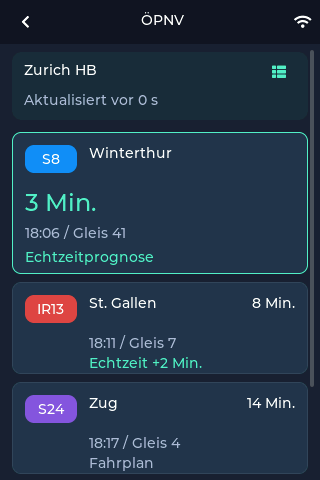
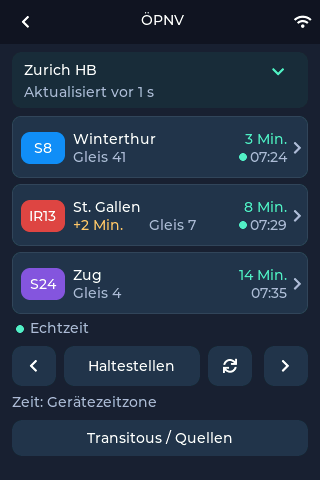
Fix public transport view

diff --git a/src/apps/TransitApp.cpp b/src/apps/TransitApp.cpp
@@ -23,10 +23,18 @@ lv_obj_t *button(lv_obj_t*p,const std::string&t,int x,int y,int w,int h,lv_event
 lv_obj_t *bounded_label(lv_obj_t *parent,const std::string &text,int x,int y,int width,int height,uint32_t color=0xffffff,bool big=false){
  auto *value=label(parent,text,x,y,width,color,big);lv_obj_set_height(value,height);return value;
 }
-void route_badge(lv_obj_t *parent,const transit::Departure &departure,int x,int y){
- auto *pill=box(parent,x,y,52,28,departure.color);
- auto *name=bounded_label(pill,departure.line,0,0,48,lv_font_get_line_height(lv_obj_get_style_text_font(pill,LV_PART_MAIN)));
+void route_badge(lv_obj_t *parent,const transit::Departure &departure,int x,int y,int width=52,int height=28){
+ auto *pill=box(parent,x,y,width,height,departure.color);
+ lv_obj_clear_flag(pill,LV_OBJ_FLAG_CLICKABLE);
+ auto *name=bounded_label(pill,departure.line,0,0,width-4,lv_font_get_line_height(lv_obj_get_style_text_font(pill,LV_PART_MAIN)));
  lv_obj_set_style_text_align(name,LV_TEXT_ALIGN_CENTER,0);lv_obj_center(name);
+}
+// Only fresh realtime predictions receive an indicator.
+void live_dot(lv_obj_t *parent,int x,int y,bool live,bool cached=false){
+ if(!live||cached)return;
+ auto *dot=box(parent,x,y,8,8,Mint);
+ lv_obj_clear_flag(dot,LV_OBJ_FLAG_CLICKABLE);
+ lv_obj_set_style_radius(dot,LV_RADIUS_CIRCLE,0);
 }
 void board(){ctx.view=0;TransitService::instance().resume();render();}
 void back(lv_event_t*){if(ctx.view==2||ctx.view==5){ctx.view=1;render();return;}if(ctx.view){board();return;}TransitService::instance().pause();UiSessionState::set_route("home");if(ctx.home&&lv_obj_is_valid(ctx.home))ui_load_screen(ctx.home,true);}
@@ -99,39 +107,59 @@ void render(){
  }
  if(s.favourites().empty()){label(ctx.body,i18n::tr("Your next departure"),12,24,w-24,Mint,true);label(ctx.body,i18n::tr("Add a favourite stop to get started"),12,65,w-24,Muted);button(ctx.body,i18n::tr("Find a stop"),12,110,w-24,46,start_search,0,0x237a70);button(ctx.body,i18n::tr("About Transitous"),12,170,w-24,42,info);return;}
  const auto&stop=s.favourites()[s.selected()];
- auto*station=box(ctx.body,12,8,w-24,68,0x1d2c3e);
+ auto*station=box(ctx.body,12,8,w-24,56,0x1d2c3e);
  lv_obj_add_flag(station,LV_OBJ_FLAG_CLICKABLE);lv_obj_add_event_cb(station,stops,LV_EVENT_CLICKED,nullptr);
  bounded_label(station,stop.name,12,10,w-84,24);
- bounded_label(station,LV_SYMBOL_LIST,w-60,12,24,22,Mint);
+ bounded_label(station,LV_SYMBOL_DOWN,w-60,12,24,22,Mint);
  const bool cached=!s.online()||!s.board().error.empty()||(s.fetched()&&TransitService::now_ms()-s.fetched()>180000);
  std::string status=!s.notice().empty()?s.notice():!s.online()?i18n::tr("Offline / waiting for clock"):!s.board().error.empty()?s.board().error:s.busy()?i18n::tr("Updating..."):s.fetched()?i18n::tr("Updated ")+std::to_string((TransitService::now_ms()-s.fetched())/1000)+i18n::tr("s ago"):i18n::tr("Waiting for departures");
- bounded_label(station,(cached&&s.fetched()?i18n::tr("Cached: "):"")+status,12,40,w-48,20,cached?Amber:Muted);
- int y=88;size_t shown=0;
+ bounded_label(station,(cached&&s.fetched()?i18n::tr("Cached: "):"")+status,12,32,w-48,20,cached?Amber:Muted);
+ int y=72;size_t shown=0;
  for(size_t i=0;i<s.board().departures.size();++i){
   const auto&d=s.board().departures[i];if(d.time<std::time(nullptr)-60)continue;
-  bool hero=shown++==0;int height=hero?142:92;auto*row=box(ctx.body,12,y,w-24,height);
+  ++shown;
+  const int rowWidth=w-24,height=62;
+  auto*row=box(ctx.body,12,y,rowWidth,height);
   lv_obj_add_flag(row,LV_OBJ_FLAG_CLICKABLE);lv_obj_add_event_cb(row,detail,LV_EVENT_CLICKED,reinterpret_cast<void*>(i));
-  lv_obj_set_style_border_color(row,lv_color_hex(hero?Mint:0x34465b),0);lv_obj_set_style_border_width(row,1,0);
-  route_badge(row,d,12,12);
+  lv_obj_set_style_border_color(row,lv_color_hex(0x34465b),0);lv_obj_set_style_border_width(row,1,0);
+  route_badge(row,d,8,(height-32)/2,44,32);
   const std::string remaining=(cached?"~ ":"")+transit::countdown(d,std::time(nullptr));
-  const uint32_t stateColor=d.cancelled?Amber:d.live?Mint:Muted;
-  if(hero){
-   bounded_label(row,d.destination,76,12,w-114,40);
-   bounded_label(row,remaining,12,56,w-50,30,d.cancelled?Amber:Mint,true);
-   bounded_label(row,transit::clock_text(d.time)+i18n::tr(" / Platform ")+(d.platform.empty()?"--":d.platform),12,92,w-50,20,Muted);
-   bounded_label(row,prediction(d),12,116,w-50,20,stateColor);
-  }else{
-   const int countWidth=d.cancelled?92:68;
-   bounded_label(row,d.destination,76,12,w-120-countWidth,40);
-   auto*count=bounded_label(row,remaining,w-38-countWidth,12,countWidth,20,d.cancelled?Amber:0xffffff);
-   lv_obj_set_style_text_align(count,LV_TEXT_ALIGN_RIGHT,0);
-   bounded_label(row,transit::clock_text(d.time)+i18n::tr(" / Platform ")+(d.platform.empty()?"--":d.platform),76,52,w-114,18,Muted);
-   bounded_label(row,prediction(d),76,72,w-114,18,stateColor);
+  const int countWidth=d.cancelled?88:cached?74:58;
+  const int timeRight=rowWidth-22,destinationWidth=rowWidth-84-countWidth;
+  const int delay=d.live?int((d.time-d.scheduled)/60):0;
+  const bool showDelay=delay&&!d.cancelled;
+  const auto*font=lv_obj_get_style_text_font(row,LV_PART_MAIN);
+  const int lineHeight=lv_font_get_line_height(font);
+  const int lineSpace=lv_obj_get_style_text_line_space(row,LV_PART_MAIN);
+  const bool hasMetadata=showDelay||!d.platform.empty();
+  lv_point_t destinationSize;
+  lv_text_get_size(&destinationSize,d.destination.c_str(),font,0,lineSpace,destinationWidth,LV_TEXT_FLAG_NONE);
+  const int destinationHeight=std::min(int(destinationSize.y),height-8-(hasMetadata?18:0));
+  const int destinationY=(height-destinationHeight-(hasMetadata?18:0))/2;
+  bounded_label(row,d.destination,60,destinationY,destinationWidth,destinationHeight);
+  const int timeY=(height-2*lineHeight-2)/2;
+  auto*count=bounded_label(row,remaining,timeRight-countWidth,timeY,countWidth,lineHeight,d.cancelled?Amber:cached?Muted:Mint);
+  lv_obj_set_style_text_align(count,LV_TEXT_ALIGN_RIGHT,0);
+  bounded_label(row,LV_SYMBOL_RIGHT,rowWidth-16,(height-lineHeight)/2,10,lineHeight,Muted);
+  const auto absoluteTime=transit::clock_text(d.time);
+  lv_point_t timeSize;
+  lv_text_get_size(&timeSize,absoluteTime.c_str(),font,0,0,LV_COORD_MAX,LV_TEXT_FLAG_NONE);
+  const int absoluteY=timeY+lineHeight+2;
+  live_dot(row,timeRight-timeSize.x-11,absoluteY+(lineHeight-8)/2,d.live,cached);
+  bounded_label(row,absoluteTime,timeRight-timeSize.x,absoluteY,timeSize.x,lineHeight,Muted);
+  const int metadataY=destinationY+destinationHeight+2;
+  int platformX=60;
+  if(showDelay){
+   bounded_label(row,(delay>0?"+":"")+std::to_string(delay)+i18n::tr(" min"),60,metadataY,76,18,Amber);
+   platformX=136;
   }
-  y+=height+8;
+  if(!d.platform.empty())bounded_label(row,i18n::tr("Platform ")+d.platform,platformX,metadataY,60+destinationWidth-platformX,18,Muted);
+  y+=height+6;
  }
  if(!shown){label(ctx.body,s.busy()?i18n::tr("Loading departures..."):i18n::tr("No upcoming departures"),12,y,w-24,Muted);y+=42;}
- button(ctx.body,LV_SYMBOL_LEFT,12,y,44,40,navigate,-1);button(ctx.body,i18n::tr("Stops"),64,y,80,40,stops);button(ctx.body,LV_SYMBOL_REFRESH,152,y,68,40,refresh);button(ctx.body,LV_SYMBOL_RIGHT,w-56,y,44,40,navigate,1);y+=48;
+ live_dot(ctx.body,16,y+5,true);label(ctx.body,i18n::tr("Live"),30,y,92,Muted);
+ y+=26;
+ button(ctx.body,LV_SYMBOL_LEFT,12,y,44,40,navigate,-1);button(ctx.body,i18n::tr("Stops"),64,y,w-184,40,stops);button(ctx.body,LV_SYMBOL_REFRESH,w-112,y,44,40,refresh);button(ctx.body,LV_SYMBOL_RIGHT,w-56,y,44,40,navigate,1);y+=48;
  label(ctx.body,i18n::tr("Times: device timezone"),12,y,w-24,Muted);y+=26;button(ctx.body,i18n::tr("Transitous / Sources"),12,y,w-24,36,info);
  lv_obj_scroll_to_y(ctx.body,scroll,LV_ANIM_OFF);
 }

diff --git a/test/transit/regression.cpp b/test/transit/regression.cpp
@@ -80,7 +80,8 @@ int main(int argc,char **argv){
  if(const char *language=std::getenv("GADGET_OS_LANGUAGE")){assert(i18n::set_language(language));i18n::apply_fonts(display);}
     transit_app_launch();capture("transit-board");
  const auto originalBoard=s._board;
- auto longName=s._board.departures[0];longName.line="33";longName.destination="Zurich Tiefenbrunnen, Bahnhof";
+ auto longName=s._board.departures[0];longName.line="33";longName.destination="Zürich Tiefenbrunnen, Bahnhof";
+ longName.platform.clear();longName.scheduled=longName.time;
  s._board.departures.push_back(longName);render();capture("transit-long-destination");
  s._board=originalBoard;render();
  ctx.departure=s.board().departures[0];ctx.view=3;render();capture("transit-detail");
